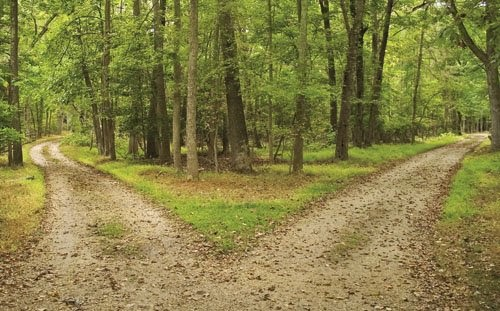
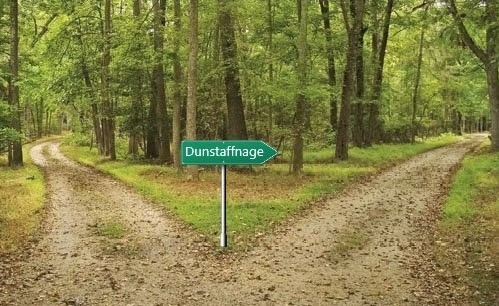
creacion nuevas clases e imagenes

diff --git a/Mazmorra/src/Mazmorra/main.java b/Mazmorra/src/Mazmorra/main.java
@@ -16,12 +16,15 @@ public class main {
         final ImageIcon azaTun = new ImageIcon("./Mazmorra/img/tunicaAzada.png");
         final ImageIcon pensar = new ImageIcon("./Mazmorra/img/pensar.gif");
         final ImageIcon hablar = new ImageIcon("./Mazmorra/img/hablar2.gif");
+        final ImageIcon espada = new ImageIcon("./Mazmorra/img/espada.png");
+        final ImageIcon enemigo1 = new ImageIcon("./Mazmorra/img/enemigo1.png");
         ArrayList obJugador = new ArrayList();
         String[] botonesInicio = {"Nos preparamos?"};
         String[] botonesA = {"Ir hacia la puerta"};
         String[] botonesB = {"Ir a la herreria", "Continuar con el viaje"};
         String[] botonesC = {"Levantarse"};
         String[] botonesD = {"Coger la espada", "Dejar la espada"};
+        String[] botonesE = {"Luchar", "Huir"};
         String[] botones = {"Vamos!","Mejor no"};
         
         
@@ -36,7 +39,7 @@ public class main {
         
         if (listo==0){
              listo = JOptionPane.showOptionDialog(null, "Llegas y mantienes una larga conversacion con tu tio contando la situación acompañado por un café solo con hielo y una crema de orujo", "Dungeon", JOptionPane.INFORMATION_MESSAGE, 0, hablar, botonesC, null);
-             listo = JOptionPane.showOptionDialog(null, "Resulta que tu tío te da una espada con unas runas talladas", "Dungeon", JOptionPane.INFORMATION_MESSAGE, 0, hablar, botonesD, null);
+             listo = JOptionPane.showOptionDialog(null, "Resulta que tu tío te da una espada con unas runas talladas", "Dungeon", JOptionPane.INFORMATION_MESSAGE, 0, espada, botonesD, null);
                 if(listo==0){
                     espada es = new espada(7, 10);
                     obJugador.add(es);
@@ -54,17 +57,25 @@ public class main {
             }
             
             System.out.println(m.getFinalX()+" y "+ m.getFinalY());
+        
             
         listo = JOptionPane.showOptionDialog(null, "Estás apunto de adentrarte en "+d.getNombre()+"\nTienes todo el equipo listo?", "Dungeon", JOptionPane.INFORMATION_MESSAGE, 0, icon, botones, botones);
         
             if (listo==0){
-                System.out.println("Vamos a ello");
-                JFrame f=new JFrame("Dungeon");
-                f.setBounds(10,10,300,200);
-                f.setVisible(true);
-                f.setDefaultCloseOperation(JFrame.EXIT_ON_CLOSE);
+                int opc1 = JOptionPane.showOptionDialog(null, "Al seguir hacia delante te encuentras con el jefe de la mazmorra", "Dungeon", JOptionPane.INFORMATION_MESSAGE, 0, enemigo1, botonesE, botonesE);
+                if(opc1==0){
+
+                }else if (opc1 == 1){
+                    finJuego1();
+                }
             }else if (listo==1){
                 System.out.println("Bueno aquí esperaré...");
             }
+    }
+    public static void finJuego(){
+        JOptionPane.showMessageDialog(null, "Te han matado ☠", "FIN", 0);
+    }
+    public static void finJuego1(){
+        JOptionPane.showMessageDialog(null, "Has intentado huir y te han matado ☠", "FIN", 0);
     }
 }

diff --git a/Mazmorra/src/Mazmorra/Movimiento.java b/Mazmorra/src/Mazmorra/Movimiento.java
@@ -66,6 +66,7 @@ public class Movimiento{
         if(getFinalX()>980){finalizado=false;}
         return finalizado;
     }
+
     
 
     public class TestPane extends JPanel {
@@ -115,8 +116,6 @@ public class Movimiento{
                     double x = (int) (startX + ((targetX - startX) * progress));
                     double y = (int) (startY + ((targetY - startY) * progress));
 
-                    // x/y are the center points, need to adjust them so the shape
-                    // moves about the center point
                     champion.setRect(x - 5, y - 5, 100, 100);
                     repaint();
                 }
